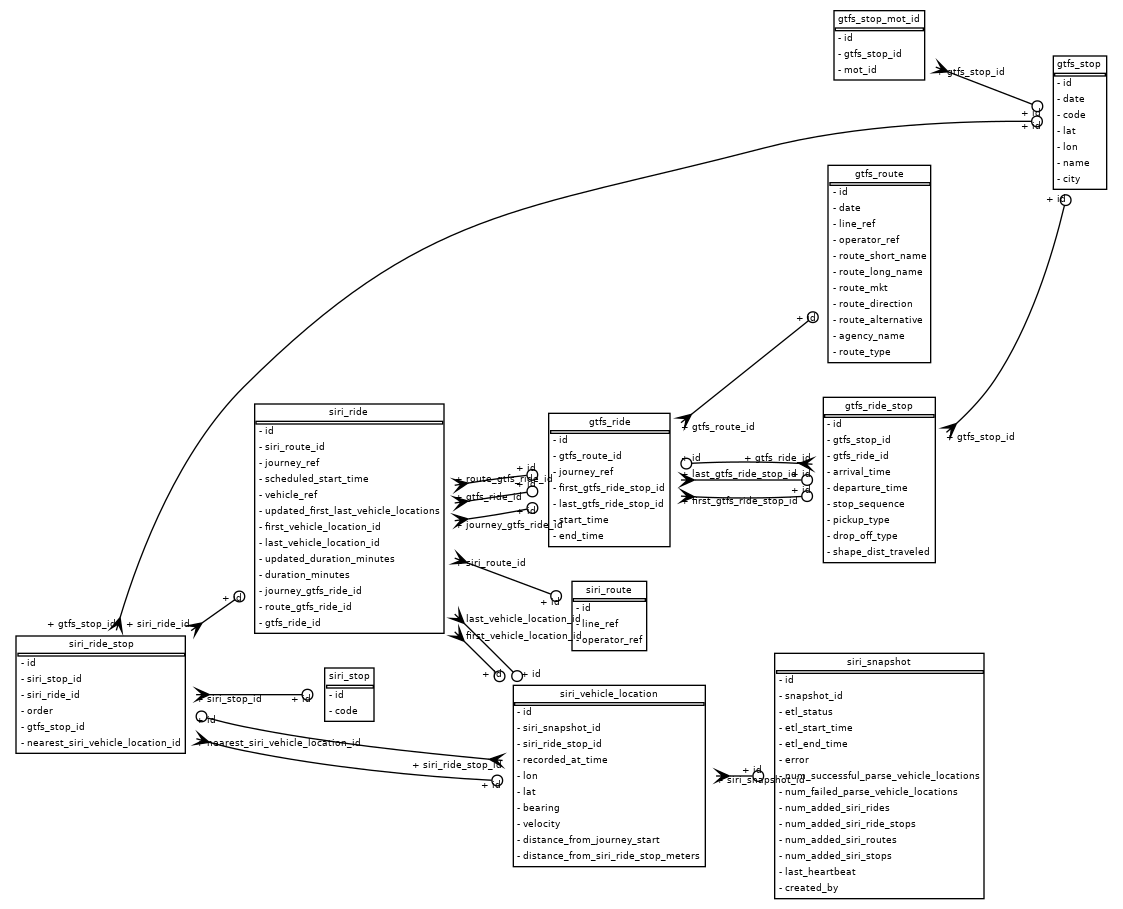
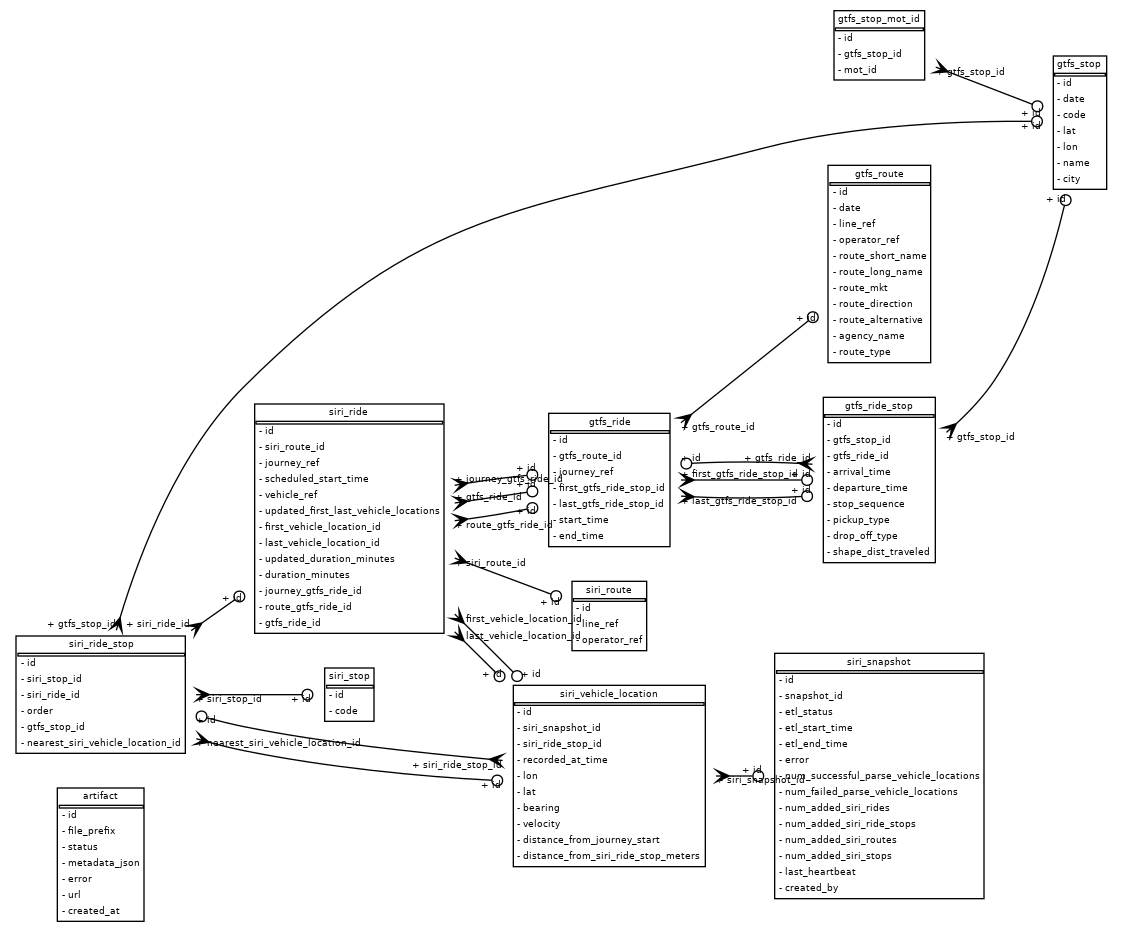
automatic update of the data model documentation

diff --git a/DATA_MODEL.md b/DATA_MODEL.md
@@ -2,6 +2,24 @@
 
 ![Database Schema Diagram](dbschema.png)
 
+## artifact
+
+Static files from ETL / processing tasks stored in S3.
+
+#### artifact.id
+
+#### artifact.file_prefix
+
+#### artifact.status
+
+#### artifact.metadata_json
+
+#### artifact.error
+
+#### artifact.url
+
+#### artifact.created_at
+
 ## gtfs_route
 
 A planned route. 
